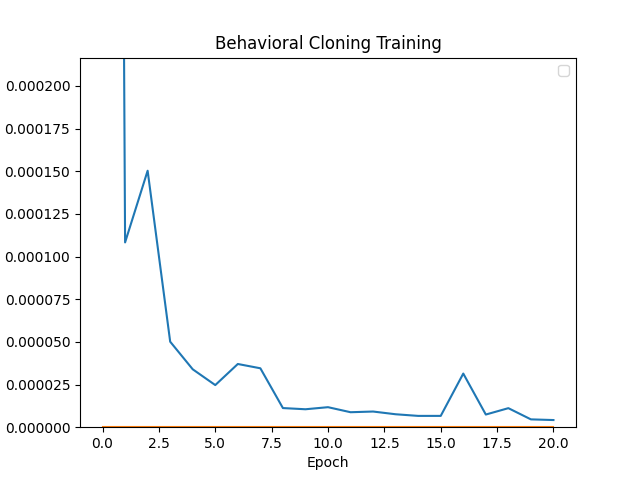
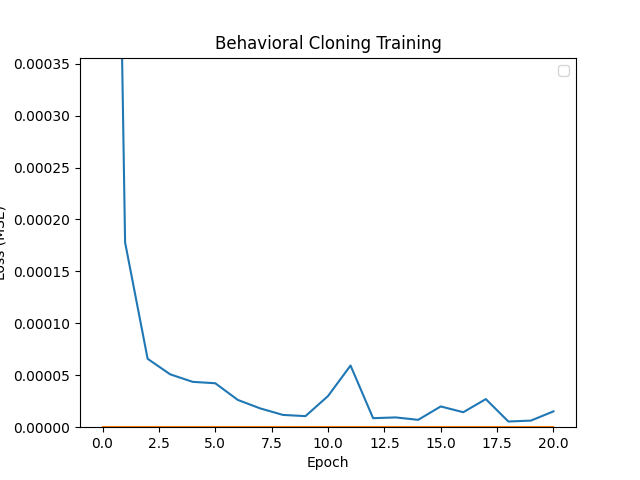
initialize pretrained weights

diff --git a/ppo_fine_tuning.py b/ppo_fine_tuning.py
@@ -58,7 +58,15 @@ def main():
         envs.action_space,
         base_kwargs={'recurrent': False,
                      'hidden_size': 32 })
-
+    # behavioral cloning
+    model = PusherPolicyModel()
+    num_epochs = 20
+    model.train(num_epochs=num_epochs)
+    
+    actor_critic.base.actor[0].weight = model.fc1.weight
+    actor_critic.base.actor[1].weight = model.fc2.weight
+    actor_critic.dist.fc_mean.weight = model.fc3.weight
+    
     
     actor_critic.to(device)
 
